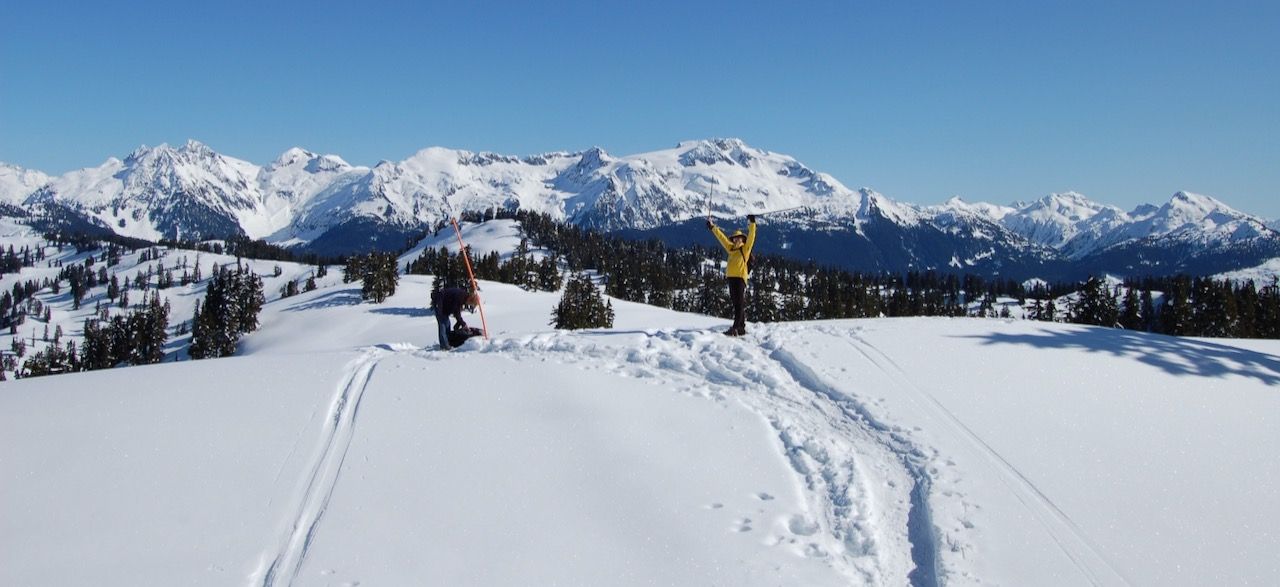
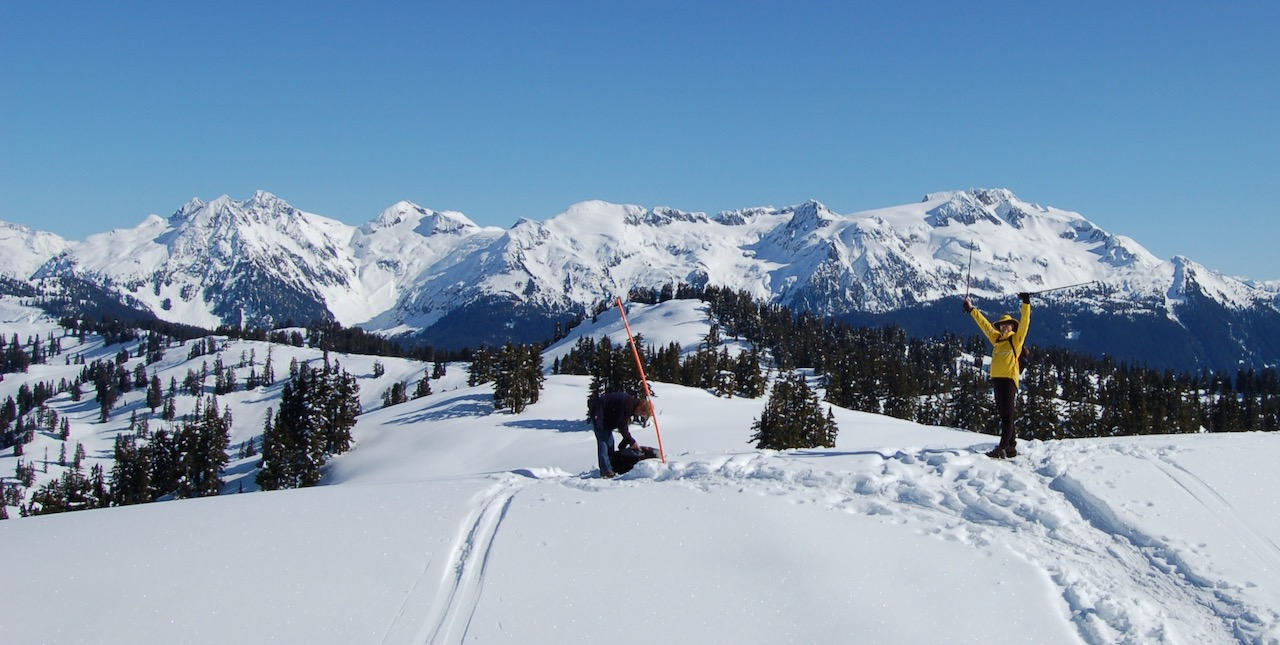
...

diff --git a/src/posts/elfin-lakes.md b/src/posts/elfin-lakes.md
@@ -31,8 +31,6 @@ Then round the corner and the Mamquam massif floats into view like some deranged
 
 ![Mamquam](/images/elfin-lakes/mamquam-2010-harv.jpeg)
 
-![Mamquam](/images/elfin-lakes/mamquam.jpeg)
-
 And we hike down Paul Ridge.
 
 ![Paul ridge](/images/elfin-lakes/paul-ridge.jpeg)
